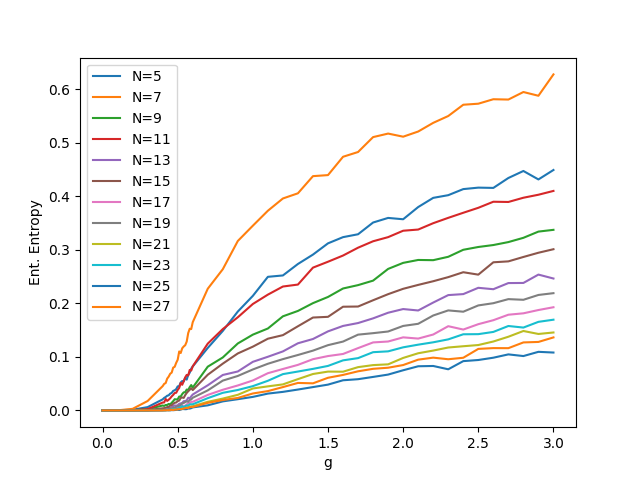
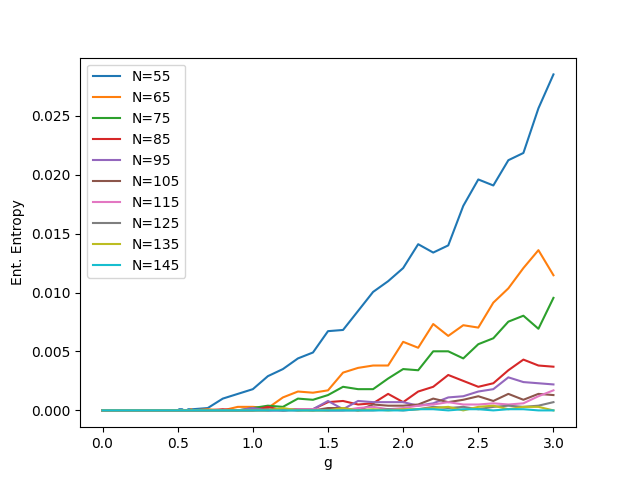
sync

diff --git a/plot_entropy.py b/plot_entropy.py
@@ -14,7 +14,7 @@ red = (195/255, 58/255, 50/255)
 green = (0/255, 158/255, 115/255)
 orange = (230/255, 159/255, 0/255)
 
-Nlist = [i for i in range(4,28) if i%2!=0]
+Nlist = [i for i in range(50,150,5) if i%2!=0]
 nN = len(Nlist)
 glist = np.round(np.append(np.linspace(0,0.4,5), np.append(np.linspace(0.41,0.59,19),np.linspace(0.6,3,25))), decimals=3)
 Ng = len(glist)
@@ -104,7 +104,3 @@ plt.imshow(data,
 
 
 plt.savefig("phase.png")
-
-for i in range(Ng):
-    mmax = np.ceil(2*np.sqrt(3*glist[i]))
-    print("g=%.2f, mmax=%.2f"%(glist[i], mmax))